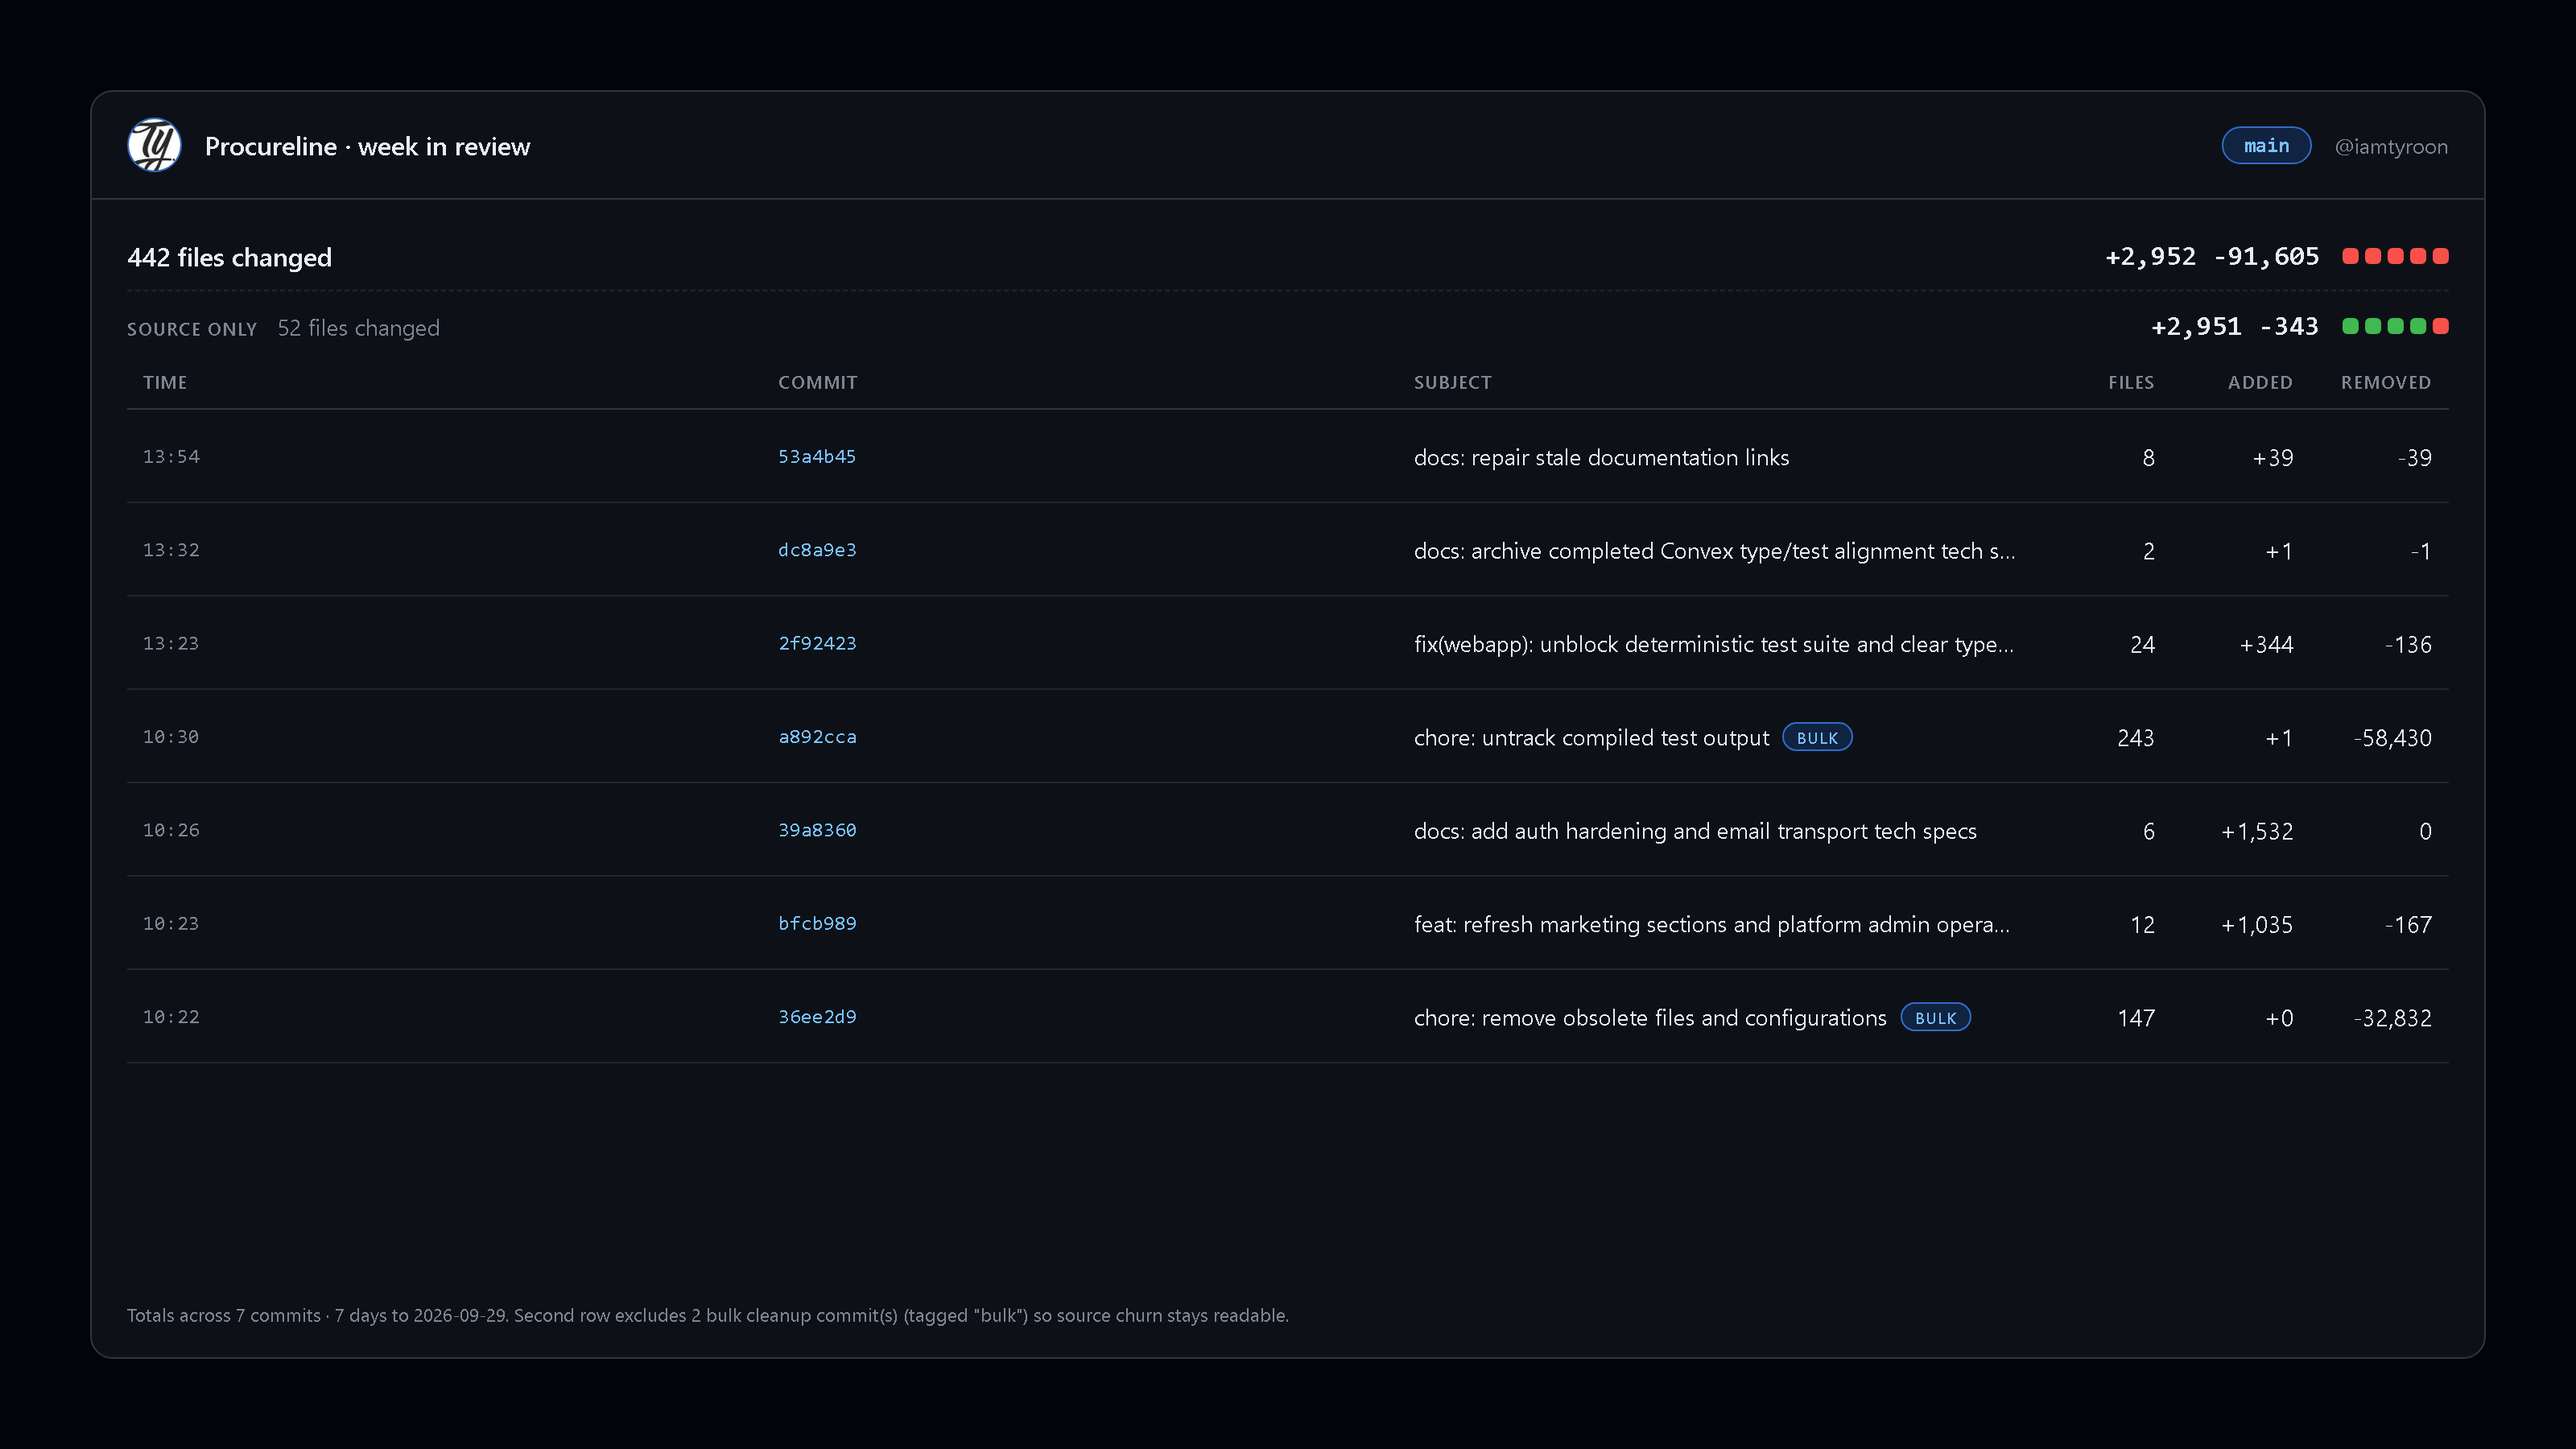
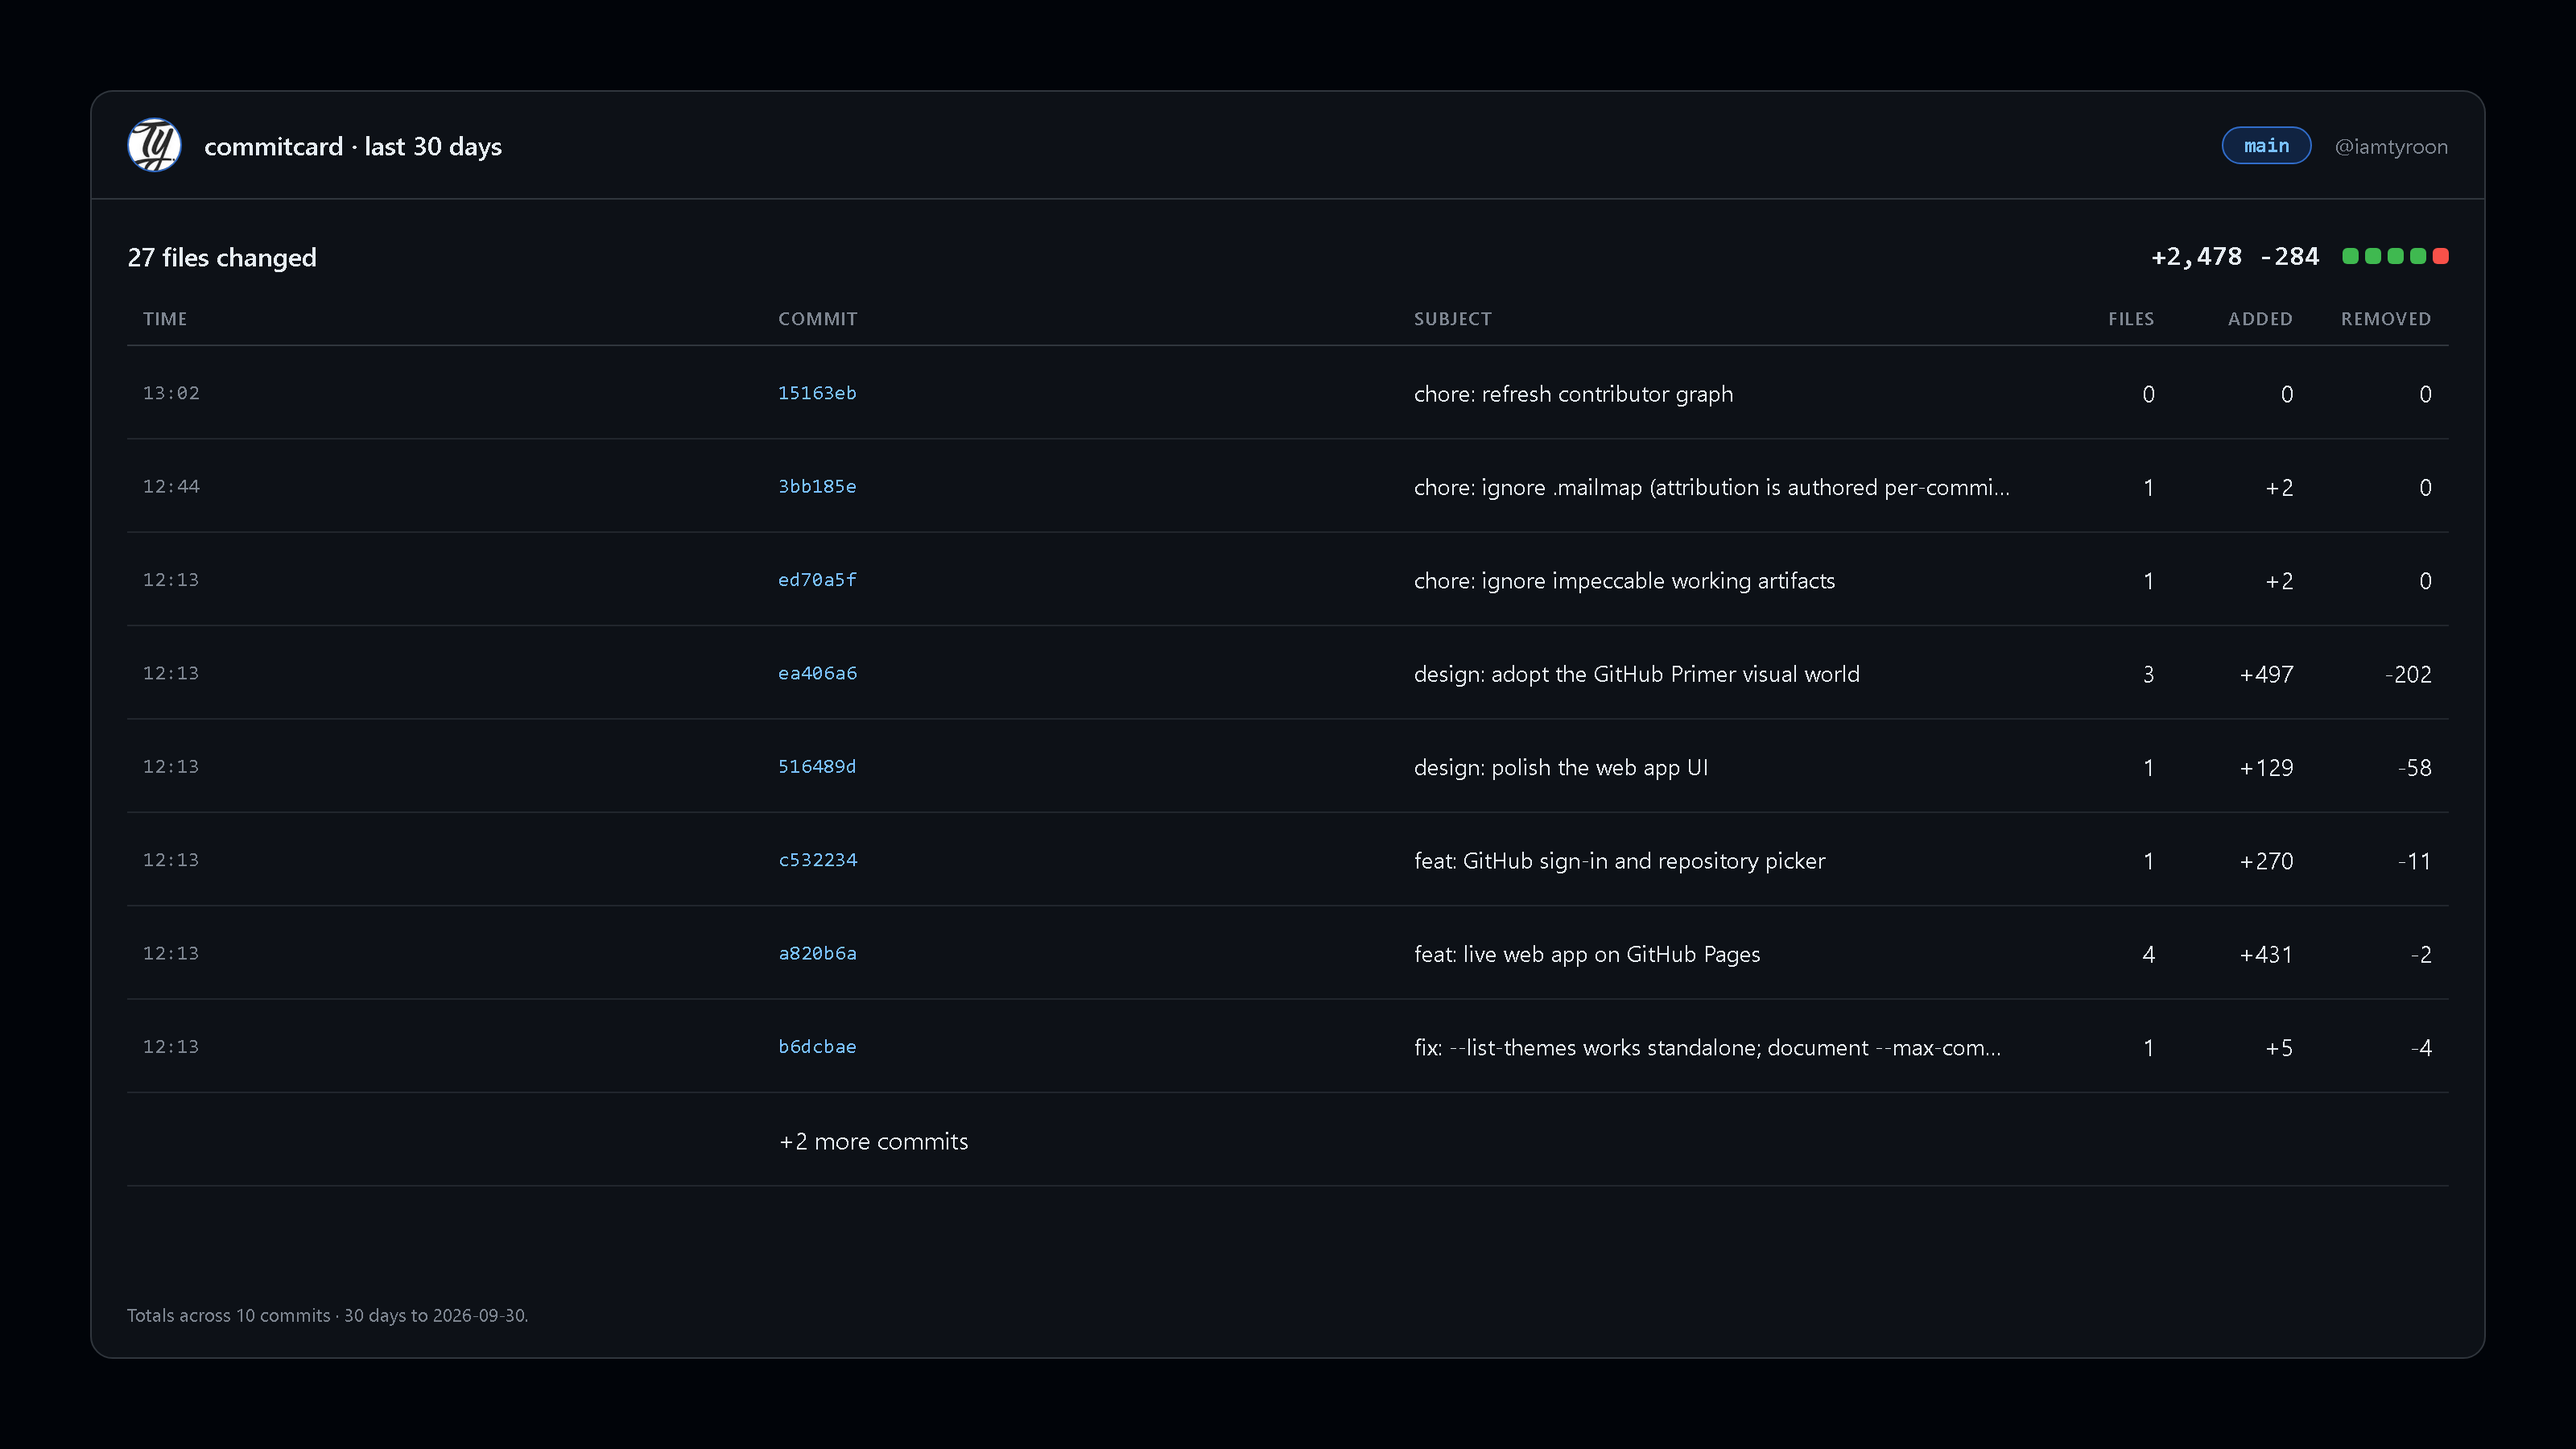
docs: rewrite README for accuracy; regenerate the example card
The README claimed \
px commitcard\ three times, but the package was never
published to npm (404). Replaced with the paths that actually work — the web
app and a clone-and-run CLI — and noted the npm status honestly.

Also:
- Regenerated docs/example.png from the current renderer; the old one predated
  the Primer redesign, so the README showed a card the tool no longer produces.
  The new one renders this repo's own history.
- Documented the web app's signed-in vs signed-out limits as a table.
- Noted that GitHub history is paginated so multi-day ranges are exact.
- Fix: the card rendered '+0' for an empty commit's additions while deletions
  already rendered a bare '0'. Both now show '0'.

diff --git a/README.md b/README.md
@@ -1,50 +1,74 @@
 # commitcard
 
-Turn a day (or week) of commits into a clean, shareable image for Twitter/X, LinkedIn, or a blog post.
+Turn a day or a week of commits into a clean image for Twitter/X, LinkedIn, or a blog post.
 
-`commitcard` reads your commit history, computes the stats the way GitHub does, and renders a
-GitHub-style card sized for social. It handles the noise: large "bulk" commits (untracking build
-output, deleting generated files) are detected and shown separately so your real work isn't drowned out.
+![a commitcard for this repo's own last 30 days](docs/example.png)
 
-![example](docs/example.png)
+`commitcard` reads your commit history, computes the stats exactly the way GitHub does, and
+renders a card sized for social. It also handles the noise: large mechanical commits — untracking
+build output, deleting generated files — are detected and shown separately, so a cleanup commit
+never makes your real work look bigger than it was.
 
-## Try it in the browser
+Two frontends, one card renderer:
+
+- **[Try it in the browser](https://iamtyroon.github.io/commitcard)** — type a repo, download the
+  PNG. Nothing to install.
+- **The CLI** — the full-power path. Private repos, local git, and large ranges.
+
+## The web app
 
 **[iamtyroon.github.io/commitcard](https://iamtyroon.github.io/commitcard)**
 
-Type a public `owner/name`, pick a range, and download the PNG. The web version renders in your
-browser and runs entirely client-side — nothing is uploaded.
+Pick a repository, a range, and a size, then download the PNG. It runs entirely client-side —
+nothing is uploaded. Sign in to unlock private repositories and pick from your own repos.
 
-> Browser limits: the public GitHub API allows 60 requests/hour per IP, and the page analyses at
-> most 30 commits. For private repos, local git, and unlimited ranges, use the CLI below.
+| | Signed out | Signed in |
+|---|---|---|
+| Repositories | public only | public **and private** |
+| Commits analysed | 30 | 200 |
+| API rate limit | 60 / hour per IP | 5,000 / hour |
 
-## Quick start
+The token lives in that tab only (memory + `sessionStorage`), is sent nowhere except
+`api.github.com`, and disappears when you close the tab.
 
-```bash
-# today's commits for a GitHub repo (uses gh if logged in, else the public API)
-npx commitcard --repo iamtyroon/Procureline today
+## The CLI
 
-# this week, with your handle and a title
-npx commitcard --repo vercel/next.js week --handle @you --title "My week in code"
-```
+Requires Node.js 18+ and a Chromium/Chrome/Edge binary (found automatically, including
+Playwright's cached Chromium).
 
-No install needed to try it — `npx commitcard ...` runs it directly. To install globally:
+~~~bash
+git clone https://github.com/iamtyroon/commitcard.git
+cd commitcard
+node bin/commitcard.mjs --repo iamtyroon/commitcard 30d
+~~~
 
-```bash
-npm install -g commitcard
-commitcard --repo owner/name today
-```
+That writes `commitcard-<date>.png` in the current directory.
+
+> Not published to npm yet — run it from a clone as above, or use the web app.
+
+~~~bash
+# today's commits for a repo (uses gh if logged in, else the public API)
+node bin/commitcard.mjs --repo iamtyroon/Procureline today --tz 3
+
+# this week, with a title and your handle
+node bin/commitcard.mjs --repo vercel/next.js week --handle @you --title "My week in code"
+
+# from a local checkout — no network, works on any repo
+node bin/commitcard.mjs --cwd . week --tz 3
+~~~
 
 ## Where the data comes from
 
-- **GitHub** (`--repo owner/name`) — the default. Uses the `gh` CLI when available (so **private repos work**),
-  otherwise the public GitHub API (set `GITHUB_TOKEN` to raise the rate limit).
-- **Local git** (`--cwd .`) — reads the git history in a directory. No network, works offline, works on
-  any repo (even non-GitHub).
+- **GitHub** (`--repo owner/name`) — uses the `gh` CLI when installed, so **private repos work**.
+  Otherwise the public API (set `GITHUB_TOKEN` to raise the rate limit).
+- **Local git** (`--cwd .`) — reads a directory's history. No network, works offline, any repo.
+
+GitHub history is paginated, so multi-day ranges are exact rather than stopping at 100 commits.
+Capped by `--max-commits` (default 1000); when the cap is hit the card says so.
 
 ## Ranges
 
-The range token is the first positional argument (or `--range`):
+The range is the first positional argument, or `--range`:
 
 | Token | Meaning |
 |---|---|
@@ -55,9 +79,9 @@ The range token is the first positional argument (or `--range`):
 | `month` | current calendar month |
 | `all` | entire history |
 
-Or pin exact dates: `--from 2026-09-01 --to 2026-09-29`, or a single day with `--date 2026-09-29`.
+Or pin exact dates with `--from 2026-09-01 --to 2026-09-29`, or one day with `--date 2026-09-29`.
 
-## Presets (image size)
+## Presets
 
 | Preset | Size | Best for |
 |---|---|---|
@@ -67,73 +91,56 @@ Or pin exact dates: `--from 2026-09-01 --to 2026-09-29`, or a single day with `-
 | `og` | 1200×630 | Open Graph / blog previews |
 | `github` | auto | README / issue comments (sized to content) |
 
-## Themes
-
-`dark` (default), `light`, `midnight`.
-
-## Common examples
-
-```bash
-# square post, light theme, your avatar and handle
-commitcard --repo owner/name today --preset twitter-square --theme light \
-  --handle @you --avatar https://github.com/you.png
-
-# week-in-review with the per-day histogram
-commitcard --repo owner/name week --tz 3 --title "Week in review" --label "Sep 22 – 29"
-
-# from a local checkout, no network
-commitcard --cwd . week --tz 3
-
-# just the numbers, as JSON (no image)
-commitcard --repo owner/name today --json
-```
+Themes: `dark` (default), `light`, `midnight`.
 
 ## Options
 
-```
+~~~text
 --repo owner/name   GitHub repo to read
---branch <name>     branch (default: repo default branch)
+--branch <name>     branch (default: the repo's default branch)
 --cwd <dir>         read local git history instead
 --api gh|http       force the API backend
---tz <hours>        timezone offset for "today" and times (e.g. 3 for Nairobi)
+--tz <hours>        timezone offset for "today" and for times (e.g. 3)
 
 --preset twitter|twitter-square|x-header|og|github
 --theme dark|light|midnight
---title <text>      headline (defaults to repo name)
+--title <text>      headline (defaults to the repo name)
 --subtitle <text>   small line under the title
 --label <text>      footer label (e.g. "Week of Sep 22")
 --handle <text>     top-right handle (defaults to @owner)
 --avatar <url>      avatar image (defaults to the repo owner's)
 --note <text>       replace the default footer note
 --max-rows <n>      commits listed (default 8)
---max-commits <n>   cap on commits analysed (default 1000); card says if it hits the cap
+--max-commits <n>   cap on commits analysed (default 1000)
 --no-bulk-tag       hide the "bulk" badge
 
 --out <path>        output PNG (default ./commitcard-<date>.png)
 --scale <n>         device scale (default 2)
 --json              print stats as JSON, no image
 --open              open the PNG when done
-```
+~~~
 
-## How "bulk" detection works
+## How bulk detection works
 
-A commit is treated as **bulk** when it removes a lot and adds almost nothing *and* reads like
-maintenance (`chore`, `remove`, `untrack`, `revert`, ...). Bulk commits get a `bulk` badge and are
-excluded from the "source only" totals, so the headline shows both the raw diff and the signal.
+A commit counts as **bulk** when it deletes a lot, adds almost nothing, *and* reads like
+maintenance (`chore`, `remove`, `untrack`, `revert`, …). Those commits get a `bulk` badge and are
+left out of the "source only" row, so the card shows both the raw diff and the real signal.
+
+## Development
+
+~~~bash
+npm test
+node bin/commitcard.mjs --repo owner/name today --tz 3
+~~~
+
+The web app (`index.html`) and the CLI share `src/render.mjs` and `src/aggregate.mjs`, so a card
+looks the same either way. `DESIGN.md` documents the visual system; `PRODUCT.md` the product rules.
 
 ## Requirements
 
 - Node.js 18+
-- A Chromium/Chrome/Edge binary for rendering. `commitcard` finds a normal install automatically
-  (including Playwright's cached Chromium). Override with `COMMITCARD_BROWSER=/path/to/chrome`.
-- For private GitHub repos: `gh auth login`, or `GITHUB_TOKEN`.
-
-## Development
-
-```bash
-npm test          # unit tests for the aggregation logic
-node bin/commitcard.mjs --repo owner/name today --tz 3   # local run
-```
+- A Chromium/Chrome/Edge binary for rendering — override discovery with `COMMITCARD_BROWSER`
+- For private GitHub repos: `gh auth login`, or `GITHUB_TOKEN`
 
 ## License
 
